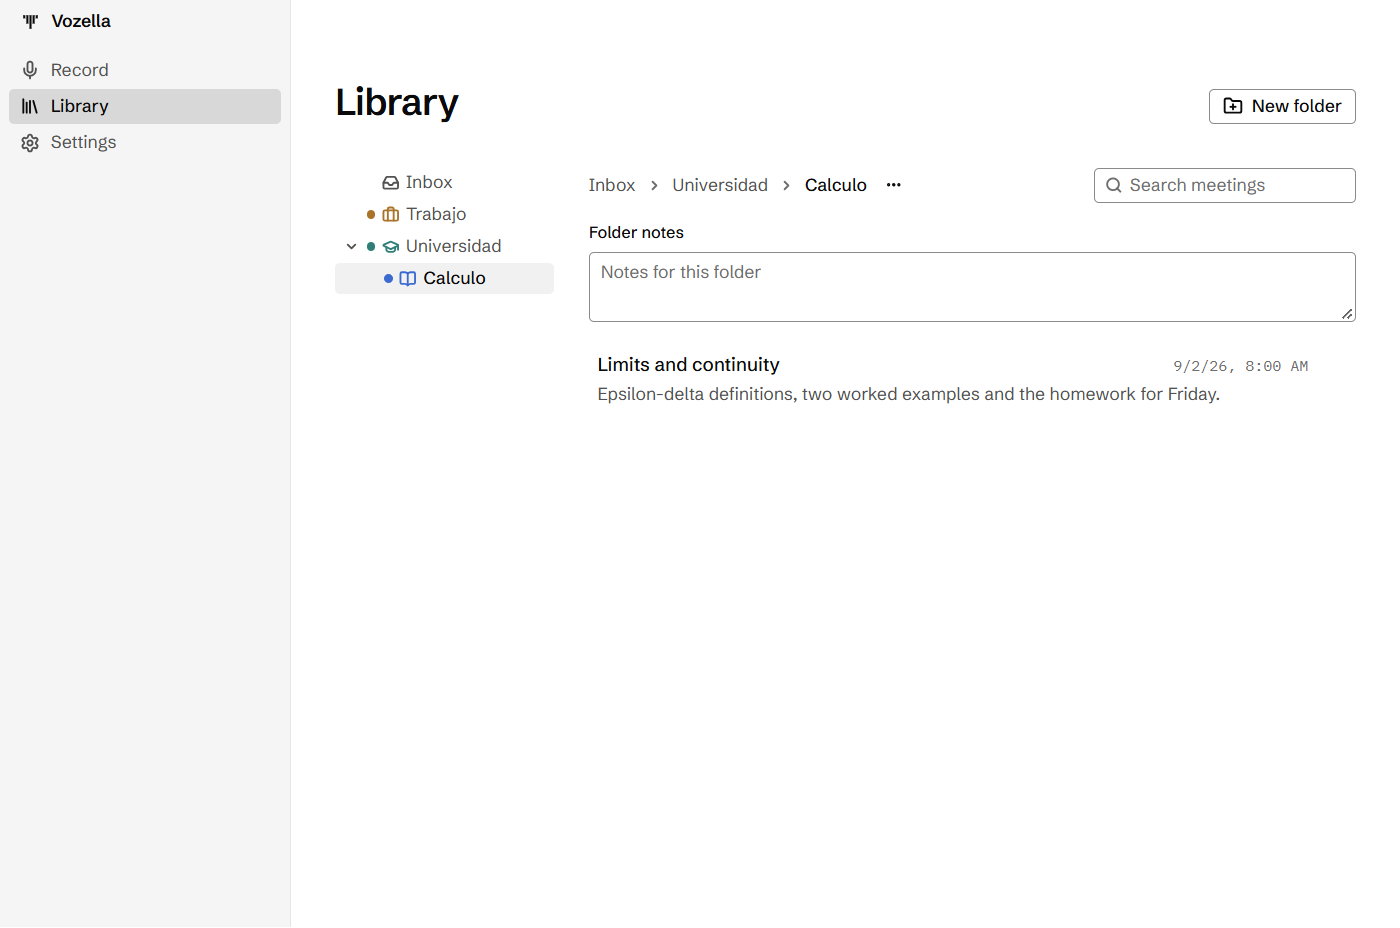
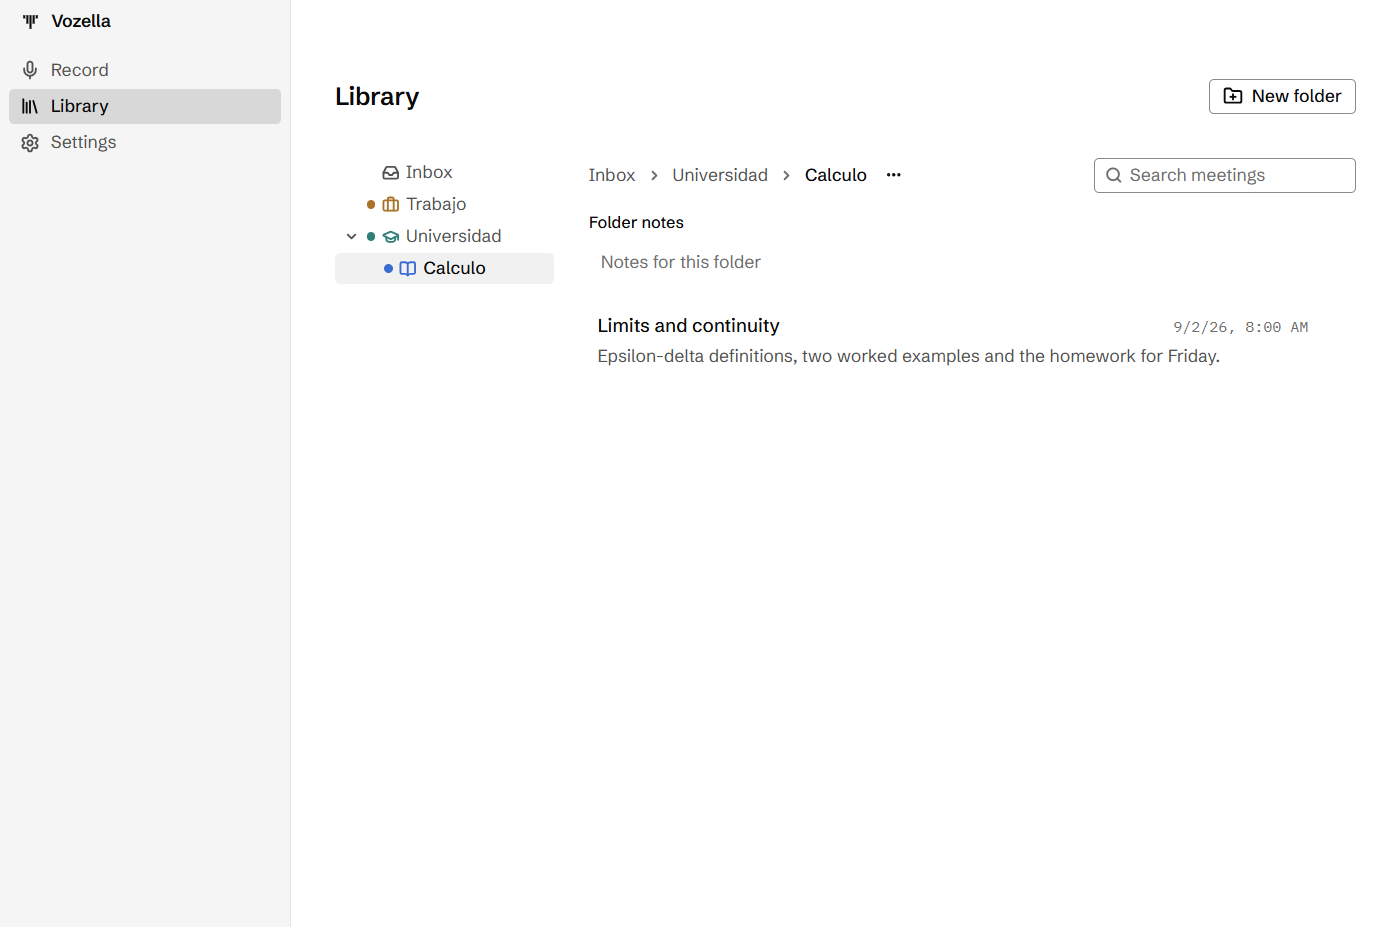
fix(library): autosave the folder note while typing, quiet notes box, refresh screenshots

diff --git a/apps/desktop/src/renderer/features/library/use-library.ts b/apps/desktop/src/renderer/features/library/use-library.ts
@@ -57,6 +57,7 @@ export interface LibraryModel {
   readonly destinations: readonly MoveDestination[];
   readonly setQuery: (value: string) => void;
   readonly setNoteText: (value: string) => void;
+  readonly saveNote: () => Promise<void>;
   readonly setExpandedIds: (ids: ReadonlySet<string>) => void;
   readonly dismissStatus: () => void;
   readonly showStatus: (message: StatusMessage) => void;
@@ -78,6 +79,9 @@ export interface LibraryModel {
   readonly openMeeting: (meetingId: string, tab: 'Transcript' | 'Summary') => void;
   readonly goRecord: () => void;
 }
+
+/** Idle time after the last keystroke before the folder note is stored. */
+export const NOTE_AUTOSAVE_MS = 400;
 
 function noteOf(folder: FolderDto | undefined): string {
   return folder?.note ?? '';
@@ -174,6 +178,17 @@ export function useLibrary(locale: string, inboxLabel: string): LibraryModel {
     },
     [persistNote, setNoteText, setSelected],
   );
+
+  // Autosave while typing (B16): a window closed from the last-window path destroys the renderer
+  // before a page-hide invoke can reach main, so the note must already be stored by then.
+  useEffect(() => {
+    const timer = setTimeout(() => {
+      void persistNote();
+    }, NOTE_AUTOSAVE_MS);
+    return () => {
+      clearTimeout(timer);
+    };
+  }, [noteText, persistNote]);
 
   // First load, live refresh, and the save of the note when the page goes away (B16).
   useEffect(() => {
@@ -281,6 +296,7 @@ export function useLibrary(locale: string, inboxLabel: string): LibraryModel {
     destinations,
     setQuery,
     setNoteText,
+    saveNote: persistNote,
     setExpandedIds,
     dismissStatus: () => {
       setStatus(null);

diff --git a/apps/desktop/e2e/library-close.spec.ts b/apps/desktop/e2e/library-close.spec.ts
@@ -1,0 +1,36 @@
+import fs from 'node:fs';
+import path from 'node:path';
+import { expect, test } from '@playwright/test';
+import { launchApp } from './launch';
+
+// B16: a folder note typed just before the last window closes must reach folders.json.
+test.describe.configure({ timeout: 90_000 });
+
+test('a folder note typed right before the window closes is kept', async () => {
+  const launched = await launchApp();
+  try {
+    const page = await launched.app.firstWindow();
+    await expect(page.getByRole('navigation')).toBeVisible();
+    await page.evaluate(() =>
+      window.vozella.invoke('library.createFolder', { name: 'Alpha', parentId: null }),
+    );
+    await page.getByRole('link', { name: /Library|Biblioteca/ }).click();
+    await page.getByRole('treeitem', { name: /Alpha/ }).click();
+    await page.getByRole('textbox', { name: 'Folder notes' }).fill('typed just before close');
+
+    const exited = new Promise<void>((resolve) => {
+      launched.app.process().once('exit', () => {
+        resolve();
+      });
+    });
+    await launched.app.evaluate(({ BrowserWindow }) => {
+      for (const w of BrowserWindow.getAllWindows()) w.close();
+    });
+    await exited;
+
+    const file = path.join(launched.dataRoot, 'meetings', 'folders.json');
+    expect(fs.readFileSync(file, 'utf8')).toContain('"note": "typed just before close"');
+  } finally {
+    fs.rmSync(launched.dataRoot, { recursive: true, force: true });
+  }
+});

diff --git a/apps/desktop/src/renderer/features/library/LibraryRoute.test.tsx b/apps/desktop/src/renderer/features/library/LibraryRoute.test.tsx
@@ -344,6 +344,21 @@ describe('folder note', () => {
     });
   });
 
+  it('stores a typed note after a pause, with no other trigger (B16)', async () => {
+    const { api, user } = await mount(seed);
+    await user.click(screen.getByRole('treeitem', { name: /Universidad/ }));
+    await user.type(screen.getByRole('textbox', { name: 'Folder notes' }), ' typed');
+    await waitFor(
+      async () => {
+        expect((await api.folders.getAll()).find((f) => f.id === UNI)?.note).toBe(
+          'Fall term typed',
+        );
+      },
+      { timeout: 3000 },
+    );
+    expect(api.calls.filter((c) => c.name === 'library.setFolderNote')).toHaveLength(1);
+  });
+
   it('saves a typed note when the page is left, and on pagehide', async () => {
     const { api, user } = await mount(seed);
     await user.click(screen.getByRole('treeitem', { name: /Universidad/ }));

diff --git a/apps/desktop/src/renderer/features/library/LibraryRoute.tsx b/apps/desktop/src/renderer/features/library/LibraryRoute.tsx
@@ -278,7 +278,10 @@ export function LibraryRoute() {
                 onChange={(event) => {
                   library.setNoteText(event.target.value);
                 }}
-                className="max-h-30 min-h-9 w-full border-transparent bg-transparent px-0 hover:not-data-disabled:not-disabled:bg-transparent focus:border-border-control focus:px-2.5"
+                onBlur={() => {
+                  void library.saveNote();
+                }}
+                className="field-sizing-content max-h-30 min-h-0! w-full resize-none! border-transparent bg-transparent px-0 hover:not-data-disabled:not-disabled:bg-transparent focus:border-border-control focus:px-2.5"
               />
             </Field>
           ) : null}

diff --git a/docs/port/parity/library-storage.md b/docs/port/parity/library-storage.md
@@ -334,3 +334,10 @@ Not changed, on purpose: B4 (kept, now reported), B23 (same order as the WinUI a
 - Fixed: #132 version, #109 select-first on right click, #60 and B4 skipped files named in the notice, #110 main waits for in-flight library writes on quit (status moved to pending-real-validation).
 - Design, fixed: Library and Settings page titles use the 20px heading (`quiet`) while the document keeps the large title; the search field hides Chromium's native clear button; the folder notes field is a borderless single line that shows its border on focus.
 - Design, not changed: dates in the mono face sit at the far right with the row's `more` slot reserved. Rejected for now: the slot keeps rows aligned and keyboard reachable; low severity, decided without a user to ask.
+
+## Second audit round decisions
+
+- #110 and B16: the note is now autosaved 400 ms after the last keystroke and on blur, besides folder change, unmount and `pagehide`, so it no longer depends on a page-hide invoke reaching main. Covered by a component test and `e2e/library-close.spec.ts`. Observed: that e2e also passes on the previous code when windows are closed with `BrowserWindow.close()`, so the audit's loss was not reproduced here; the autosave removes the dependency anyway. Status stays pending-real-validation for a manual close with the window button.
+- Fixed: the folder notes box kept `resize-y` and `min-h-16` because `cn` does not merge Tailwind classes; it is now a borderless auto-sized single line without a grip.
+- Fixed: screenshots in `docs/port/screens/library-storage/` regenerated from the current build (20px page title, borderless note, version 1.0.0).
+- Not a Library defect: items 113, 117 and 118 depend on the Session module; 155 and 156 stay unverified.
